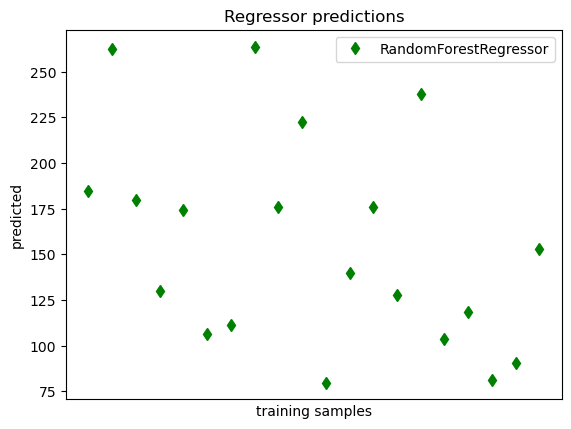
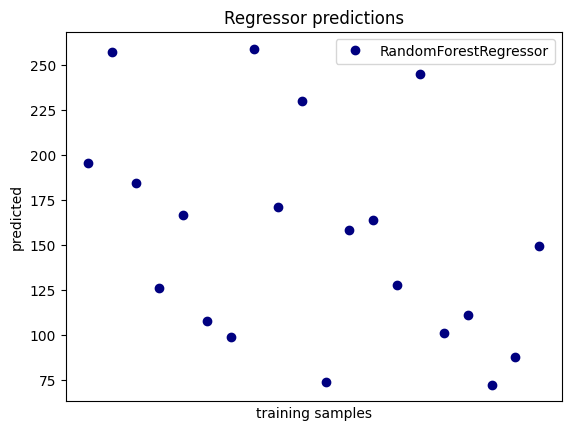
minor ensemble tweaks

diff --git a/episodes/04-ensemble-methods.md b/episodes/04-ensemble-methods.md
@@ -103,6 +103,8 @@ If we think back to the classification session, the decision tree trained using 
 
 ~~~
 from sklearn.inspection import DecisionBoundaryDisplay
+import matplotlib.pyplot as plt
+
 f1 = feature_names[0]
 f2 = feature_names[3]
 
@@ -244,7 +246,7 @@ Lets plot the first 20 predictions to see what that looks like.
 ~~~
 plt.figure()
 
-plt.plot(pred[:20], "gd", label="RandomForestRegressor") # plot first 20 predictions to make figure clearer.
+plt.plot(pred[:20],  "o", color="navy", label="RandomForestRegressor") # plot first 20 predictions to make figure clearer.
 
 plt.tick_params(axis="x", which="both", bottom=False, top=False, labelbottom=False)
 plt.ylabel("predicted")
@@ -301,10 +303,10 @@ linear_pred = linear_reg.predict(X_test_20)
 voting_pred = voting_reg.predict(X_test_20)
 
 plt.figure()
-plt.plot(rf_pred, "gd", label="GradientBoostingRegressor")
-plt.plot(gb_pred, "b^", label="RandomForestRegressor")
-plt.plot(linear_pred, "ys", label="LinearRegression")
-plt.plot(voting_pred, "r*", ms=10, label="VotingRegressor")
+plt.plot(rf_pred,  "o", color="navy", label="GradientBoostingRegressor")
+plt.plot(gb_pred,  "o", color="blue", label="RandomForestRegressor")
+plt.plot(linear_pred,  "o", color="skyblue", label="LinearRegression")
+plt.plot(voting_pred,  "x", color="red", ms=10, label="VotingRegressor")
 
 plt.tick_params(axis="x", which="both", bottom=False, top=False, labelbottom=False)
 plt.ylabel("predicted")
